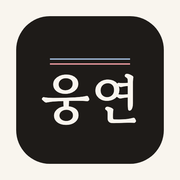
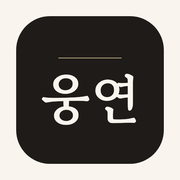
v3.3: 청실홍실 모티프 → 세이지·로즈·샴페인, 타임라인 단선·고리, 사전 소개문, 사회자 답례

Changed region(s): [[0.2778, 0.3056, 0.7222, 0.3611]]

diff --git a/index.html b/index.html
@@ -7,14 +7,14 @@
 <link rel="canonical" href="https://salescompany0920-afk.github.io/wedding-guide-7f3a9c2e/">
 <meta property="og:type" content="website">
 <meta property="og:title" content="웅진 ❤ 연재 둘만의 결혼 가이드">
-<meta property="og:image" content="https://salescompany0920-afk.github.io/wedding-guide-7f3a9c2e/og-v2.png">
+<meta property="og:image" content="https://salescompany0920-afk.github.io/wedding-guide-7f3a9c2e/og-v3.png">
 <meta property="og:image:width" content="1200">
 <meta property="og:image:height" content="630">
 <meta property="og:url" content="https://salescompany0920-afk.github.io/wedding-guide-7f3a9c2e/">
 <meta property="og:locale" content="ko_KR">
 <meta name="twitter:card" content="summary_large_image">
 <meta name="twitter:title" content="웅진 ❤ 연재 둘만의 결혼 가이드">
-<meta name="twitter:image" content="https://salescompany0920-afk.github.io/wedding-guide-7f3a9c2e/og-v2.png">
+<meta name="twitter:image" content="https://salescompany0920-afk.github.io/wedding-guide-7f3a9c2e/og-v3.png">
 <link rel="icon" type="image/png" sizes="32x32" href="favicon-32.png">
 <link rel="apple-touch-icon" href="apple-touch-icon.png">
 <link rel="manifest" href="manifest.webmanifest">
@@ -29,8 +29,9 @@
   --paper:#F9F5EE; --paper-2:#F1EADF; --card:#FFFDF9;
   --ink:#1E1B18; --ink-2:#5A544C; --ink-3:#6B635A;
   --line:#DCD3C5; --line-2:#EAE3D7;
-  --blue:#2E4A6B; --blue-soft:#DEE6EF;
-  --red:#B6484C; --red-soft:#F3DEDF;
+  /* 2026-11-09 v3.3: 청실홍실 모티프 폐기. --blue=세이지 그린(링크·포커스), --red=더스티 로즈(강조·경고), --gold=샴페인(진행·현재) */
+  --blue:#5E7D6C; --blue-soft:#E4ECE6;
+  --red:#A3666A; --red-soft:#F3E4E3;
   --gold:#A8874B; --gold-soft:#F2EAD8;
   --ok:#3E7A58; --ok-soft:#E1EEE5;
   --font-display:'Gowun Batang','Nanum Myeongjo','Apple SD Gothic Neo','Malgun Gothic',serif;
@@ -43,8 +44,8 @@
     --paper:#1B1916; --paper-2:#221E1A; --card:#262119;
     --ink:#F1EBE1; --ink-2:#C3B9AA; --ink-3:#948A7D;
     --line:#3B352D; --line-2:#2F2A24;
-    --blue:#9BB4D2; --blue-soft:#273445;
-    --red:#E3959A; --red-soft:#3E292B;
+    --blue:#A9C3B4; --blue-soft:#27332D;
+    --red:#DDA7A9; --red-soft:#3C2C2D;
     --gold:#D6BB85; --gold-soft:#36301F;
     --ok:#86C39E; --ok-soft:#22332A;
     --shadow:0 10px 30px rgba(0,0,0,.35);
@@ -55,8 +56,8 @@
   --paper:#1B1916; --paper-2:#221E1A; --card:#262119;
   --ink:#F1EBE1; --ink-2:#C3B9AA; --ink-3:#948A7D;
   --line:#3B352D; --line-2:#2F2A24;
-  --blue:#9BB4D2; --blue-soft:#273445;
-  --red:#E3959A; --red-soft:#3E292B;
+  --blue:#A9C3B4; --blue-soft:#27332D;
+  --red:#DDA7A9; --red-soft:#3C2C2D;
   --gold:#D6BB85; --gold-soft:#36301F;
   --ok:#86C39E; --ok-soft:#22332A;
   --shadow:0 10px 30px rgba(0,0,0,.35);
@@ -101,8 +102,9 @@ input[type=number]::-webkit-inner-spin-button,input[type=number]::-webkit-outer-
   background:radial-gradient(ellipse 70% 55% at 50% 0%,rgba(255,255,255,.75),transparent 70%),var(--paper)}
 :root[data-theme="dark"] .cover{background:radial-gradient(ellipse 70% 55% at 50% 0%,rgba(255,255,255,.05),transparent 70%),var(--paper)}
 @media (prefers-color-scheme: dark){:root:not([data-theme="light"]) .cover{background:radial-gradient(ellipse 70% 55% at 50% 0%,rgba(255,255,255,.05),transparent 70%),var(--paper)}}
-.threads{width:128px;height:9px;margin:0 auto 30px;
-  background:linear-gradient(var(--blue),var(--blue)) top/100% 1.5px no-repeat,linear-gradient(var(--red),var(--red)) bottom/100% 1.5px no-repeat}
+.threads{width:128px;height:11px;margin:0 auto 30px;position:relative;
+  background:linear-gradient(var(--gold),var(--gold)) center/100% 1px no-repeat}
+.threads::after{content:"";position:absolute;left:50%;top:50%;width:9px;height:9px;margin:-5.5px 0 0 -5.5px;border:1.5px solid var(--gold);border-radius:50%;background:var(--paper)}
 .cover .eyebrow{font-family:var(--font-display);color:var(--ink-2);font-size:1rem;margin:0 0 18px;letter-spacing:.04em}
 .cover .names{font-family:var(--font-display);font-weight:400;margin:0 0 14px;line-height:1.1;display:flex;flex-direction:row;flex-wrap:wrap;align-items:baseline;justify-content:center;gap:0 .45em}
 .cover .names .n{font-size:clamp(2.1rem,7.6vw,3.8rem);letter-spacing:.06em;white-space:nowrap}
@@ -134,7 +136,7 @@ input[type=number]::-webkit-inner-spin-button,input[type=number]::-webkit-outer-
 section.block{padding-block:60px;border-top:1px solid var(--line)}
 .block h2{font-family:var(--font-display);font-weight:400;font-size:clamp(1.55rem,3.6vw,1.95rem);line-height:1.3;margin:0 0 .4em}
 .block h2::before{content:"";display:block;width:30px;height:7px;margin-bottom:14px;
-  background:linear-gradient(var(--blue),var(--blue)) top/100% 1.5px no-repeat,linear-gradient(var(--red),var(--red)) bottom/100% 1.5px no-repeat}
+  background:linear-gradient(var(--gold),var(--gold)) center/100% 1px no-repeat}
 .block .intro{color:var(--ink-2);max-width:40em;margin:0 0 34px;line-height:1.9}
 .block h3{font-family:var(--font-display);font-weight:400;font-size:1.3rem;line-height:1.35;margin:36px 0 10px}
 .prose{max-width:40em}
@@ -186,25 +188,26 @@ table.tbl.compact{min-width:0}
 .now-card .empty{color:var(--ink-2);margin:0}
 .progress{margin:18px 0 0}
 .progress .bar{height:6px;border-radius:999px;background:var(--line-2);overflow:hidden}
-.progress .fill{height:100%;background:linear-gradient(90deg,var(--blue),var(--red));width:0;transition:width .4s ease}
+.progress .fill{height:100%;background:linear-gradient(90deg,#CDB68A,var(--gold));width:0;transition:width .4s ease}
 .progress .pt{display:flex;justify-content:space-between;font-size:.85rem;color:var(--ink-2);margin-top:6px;font-variant-numeric:tabular-nums}
 
 /* 타임라인 — 청실홍실 레일 */
 .timeline{position:relative;padding-left:46px;margin-top:10px}
 .timeline::before,.timeline::after{content:"";position:absolute;top:10px;bottom:30px;width:1.5px}
-.timeline::before{left:14px;background:var(--blue)}
-.timeline::after{left:21px;background:var(--red)}
+.timeline::before{left:17px;background:var(--line)}
+.timeline::after{display:none}
 .phase{position:relative;padding:4px 0 34px}
-.phase .knot{position:absolute;left:-39px;top:10px;width:22px;height:22px;border-radius:50%;
-  background:conic-gradient(var(--blue) 0 50%,var(--red) 50% 100%);box-shadow:0 0 0 5px var(--paper)}
-.phase.current .knot{box-shadow:0 0 0 5px var(--paper),0 0 0 7px var(--red)}
+.phase .knot{position:absolute;left:-37px;top:12px;width:18px;height:18px;border-radius:50%;box-sizing:border-box;
+  border:2px solid var(--gold);background:var(--paper);box-shadow:0 0 0 5px var(--paper)}
+.phase.past .knot{background:var(--gold);border-color:var(--gold)}
+.phase.current .knot{width:22px;height:22px;border-width:3px;background:var(--paper);box-shadow:0 0 0 5px var(--paper),0 0 0 7px var(--gold-soft)}
 .phase h3{display:flex;flex-wrap:wrap;align-items:baseline;gap:4px 12px;margin:0 0 4px}
 .phase h3 .dnum{font-family:var(--font-display);font-size:1.5rem;font-variant-numeric:tabular-nums;letter-spacing:.01em}
 .phase h3 .plabel{font-family:var(--font-body);font-size:.98rem;color:var(--ink-2)}
 .phase .phint{font-size:.93rem;color:var(--ink-2);margin:0 0 14px;max-width:38em;line-height:1.8}
 .phase.current{background:var(--card);border:1px solid var(--line);border-radius:var(--radius);padding:16px 18px 18px;margin-left:-6px;box-shadow:var(--shadow)}
-.phase.current .knot{left:-57px;top:22px}
-.phase.current .tag{display:inline-block;font-size:.76rem;background:var(--red);color:var(--paper);border-radius:999px;padding:1px 9px;margin-left:4px;vertical-align:middle}
+.phase.current .knot{left:-34px;top:20px}
+.phase.current .tag{display:inline-block;font-size:.76rem;background:var(--gold);color:#fff;border-radius:999px;padding:1px 9px;margin-left:4px;vertical-align:middle}
 .phase.past h3 .dnum,.phase.past h3 .plabel{color:var(--ink-3)}
 
 /* 체크 항목 */
@@ -213,8 +216,8 @@ table.tbl.compact{min-width:0}
 .task input{position:absolute;opacity:0;width:1px;height:1px;margin:0}
 .task .box{flex:none;width:20px;height:20px;border:1.5px solid var(--ink-2);border-radius:5px;margin-top:6px;position:relative;background:var(--card)}
 .task input:focus-visible + .box{outline:2px solid var(--blue);outline-offset:2px}
-.task input:checked + .box{border-color:var(--red)}
-.task input:checked + .box::after{content:"";position:absolute;inset:4px;border-radius:50%;background:var(--red)}
+.task input:checked + .box{border-color:var(--gold)}
+.task input:checked + .box::after{content:"";position:absolute;inset:4px;border-radius:50%;background:var(--gold)}
 .task .txt{font-size:.97rem;line-height:1.7;padding-top:2px}
 .task .txt b{font-weight:600}
 .task .tn{color:var(--ink-2);font-size:.9rem}
@@ -243,7 +246,7 @@ details.item[open]>summary .name{color:var(--blue)}
 .item .one{color:var(--ink-2);font-size:.92rem;display:block}
 .chip{font-size:.78rem;padding:3px 10px;border-radius:999px;border:1px solid var(--line);color:var(--ink-2);white-space:nowrap;font-variant-numeric:tabular-nums;background:var(--card)}
 .chip.t1{background:var(--blue-soft);border-color:transparent;color:var(--blue)}
-.chip.t2{background:var(--red-soft);border-color:transparent;color:#9E3B40}
+.chip.t2{background:var(--red-soft);border-color:transparent;color:#8E4F53}
 .chip.my{background:var(--ink);border-color:var(--ink);color:var(--paper)}
 :root[data-theme="dark"] .chip.t2{color:var(--red)}
 @media (prefers-color-scheme: dark){:root:not([data-theme="light"]) .chip.t2{color:var(--red)}}
@@ -257,7 +260,7 @@ details.item[open]>summary .name{color:var(--blue)}
 .kv dd.exp p{margin:0 0 6px;font-size:.94rem}
 .kv dd.exp .lesson{color:var(--ink-2);font-size:.9rem;border-left:2px solid var(--line);padding-left:10px}
 .lab{display:inline-block;font-size:.74rem;border-radius:999px;padding:1px 8px;margin-right:8px;vertical-align:middle;font-weight:600}
-.lab.bad{background:var(--red-soft);color:#9E3B40}
+.lab.bad{background:var(--red-soft);color:#8E4F53}
 .lab.good{background:var(--ok-soft);color:var(--ok)}
 :root[data-theme="dark"] .lab.bad{color:var(--red)}
 @media (prefers-color-scheme: dark){:root:not([data-theme="light"]) .lab.bad{color:var(--red)}}
@@ -265,7 +268,7 @@ ul.save li{margin:.3em 0}
 .verdict{display:inline-block;font-size:.72rem;border-radius:999px;padding:0 7px;margin-left:6px;vertical-align:middle;border:1px solid var(--line);color:var(--ink-3)}
 .verdict.v-ok{border-color:transparent;background:var(--ok-soft);color:var(--ok)}
 .verdict.v-part{border-color:transparent;background:var(--gold-soft);color:var(--gold)}
-.verdict.v-no{border-color:transparent;background:var(--red-soft);color:#9E3B40}
+.verdict.v-no{border-color:transparent;background:var(--red-soft);color:#8E4F53}
 .tiers{display:grid;grid-template-columns:repeat(3,1fr);gap:10px}
 @media (max-width:640px){.tiers{grid-template-columns:1fr}}
 .tier{border:1px solid var(--line);border-radius:12px;padding:12px 14px 14px;background:var(--card);cursor:pointer;text-align:left;font:inherit;color:inherit;display:block;width:100%;line-height:1.55;position:relative;-webkit-appearance:none;appearance:none;margin:0}
@@ -275,8 +278,8 @@ ul.save li{margin:.3em 0}
 .tier.on{border-color:var(--ink);box-shadow:0 0 0 1px var(--ink)}
 .tier .stage{font-size:.78rem;color:var(--ink-2);letter-spacing:.02em}
 .tier.on .stage{color:var(--ink);font-weight:600}
-.tier.on .stage::after{content:"";display:inline-block;width:8px;height:8px;border-radius:50%;background:var(--red);margin-left:6px;vertical-align:middle}
-.tier .rec{position:absolute;top:-9px;right:10px;font-size:.7rem;background:var(--blue);color:var(--paper);border-radius:999px;padding:1px 8px}
+.tier.on .stage::after{content:"";display:inline-block;width:8px;height:8px;border-radius:50%;background:var(--gold);margin-left:6px;vertical-align:middle}
+.tier .rec{position:absolute;top:-9px;right:10px;font-size:.7rem;background:var(--gold);color:#fff;border-radius:999px;padding:1px 8px}
 .tier .tt{font-size:.95rem;font-weight:600;color:var(--ink)}
 .tier .tp{font-family:var(--font-display);font-size:1.15rem;font-variant-numeric:tabular-nums}
 .tier .tpick{font-size:.9rem;line-height:1.65;margin-top:2px}
@@ -556,7 +559,7 @@ br.m{display:none}
 
 <section class="block" id="timeline"><div class="wrap">
   <h2>1년 전부터 식 후까지</h2>
-  <p class="intro">파란 실과 붉은 실, 청실홍실입니다. 두 실이 D-Day에서 하나의 매듭이 됩니다. 각 구간의 할 일을 체크하면 이 기기에 저장됩니다. 항목 옆 "자세히"를 누르면 아래 사전으로 이동합니다.</p>
+  <p class="intro">한 줄로 이어진 열한 구간입니다. 지금 구간은 금색 고리로 표시되고, 지난 구간은 채워집니다. 각 구간의 할 일을 체크하면 이 기기에 저장됩니다. 항목 옆 "자세히"를 누르면 아래 사전으로 이동합니다.</p>
   <div class="progress all" id="progress-all"></div>
   <div class="toolbar no-print"><button type="button" class="btn danger" data-act="reset">체크 초기화</button></div>
   <div class="timeline" id="timeline-list"></div>
@@ -564,7 +567,7 @@ br.m{display:none}
 
 <section class="block page-break" id="dict"><div class="wrap">
   <h2>항목 사전</h2>
-  <p class="intro">항목마다 평균은 어떤지, 안 함·보통·아낌없이 세 가지 선택지는 실제 가격으로 얼마인지 적었습니다. 하나를 고르거나 실제 견적을 적으면 아래 예산에 모입니다. 먼저 한 사람들이 아까워했거나 잘했다고 한 것, 절약 팁, 노하우, 영상도 카드마다 있습니다. 아래 분류를 누르면 그 묶음만 보입니다.</p>
+  <p class="intro">항목마다 평균은 어떤지, 안 함·보통·아낌없이 세 가지 선택지는 실제 가격으로 얼마인지 적었습니다. 하나를 고르거나 실제 견적을 적으면 아래 예산에 모입니다. 아래 분류를 누르면 그 묶음만 보입니다. 지표는 참고만 하고, 두 분이 원하는 자유로운 결정을 하세요.</p>
   <div class="gfilter no-print" id="gfilter" role="tablist" aria-label="항목 분류"></div>
   <div class="toolbar no-print"><button type="button" class="btn" data-act="open-all">모두 펼치기</button><button type="button" class="btn" data-act="close-all">모두 접기</button><button type="button" class="btn" data-act="print">인쇄 · PDF로 저장</button></div>
   <div id="items"></div>
@@ -907,7 +910,7 @@ D.cue = [
 
 /* 역할과 답례 — 노하우 기준 */
 D.roles = [
- {r:'사회자', p:'자기 대본이 있는 숙련자가 좋습니다. 처음이면 식이 일찍 끝나고 읽기에 급급해지는데, 1~2번은 어쩔 수 없습니다. 웨딩홀 기본 대본은 2주 전까지 본인 입맛에 고치게 하세요. 분위기를 두 사람 요구에 맞출 수 있는 사람이 최고입니다.', g:'정장 한 벌'},
+ {r:'사회자', p:'자기 대본이 있는 숙련자가 좋습니다. 처음이면 식이 일찍 끝나고 읽기에 급급해지는데, 1~2번은 어쩔 수 없습니다. 웨딩홀 기본 대본은 2주 전까지 본인 입맛에 고치게 하세요. 분위기를 두 사람 요구에 맞출 수 있는 사람이 최고입니다.', g:'정성이 담긴 선물'},
  {r:'주례', p:'신랑 신부만큼, 또는 그 이상 준비하고 연습합니다. 식 한 달 전 찾아뵙고 두 사람 이야기를 들려 드리세요. 주례 없는 식이면 이 자리에 양가 부모 덕담이 들어갑니다.', g:'정성이 담긴 선물'},
  {r:'축사', p:'대중 앞에서 말하는 일이라 생각보다 훨씬 떨립니다. 2~3분 분량, 두 사람 이야기 한 가지를 부탁하세요.', g:'20만원 이상'},
  {r:'축가', p:'많이 해 본 사람을 추천합니다. 실력이 안 나올 확률이 99%고 율동이 들어가면 더 그렇습니다. MR·마이크는 식장과 미리 맞추세요.', g:'20만원'},
@@ -1331,14 +1334,14 @@ D.items.push(
 
 {id:'mc', group:'people', name:'사회자', one:'자기 대본이 있는 숙련자. 처음이면 2주 전까지 대본 수정', when:'D-60',
  why:'전통 혼례에서는 집례(執禮)가 홀기(笏記)를 읊으며 절차를 이끌었습니다. 신식 결혼식의 사회자는 그 자리를 이어받아 식순을 진행하고 하객의 주의를 모으는 사람입니다. 주례 없는 예식이 95%가 된 지금, 식의 흐름과 분위기를 책임지는 사람은 사실상 사회자 한 명입니다.',
- others:'지인 사회자 사례 20~30만원(현금·상품권 또는 와인·넥타이·디너 상품권). 전문 사회자 일반 20~40(미소 평균 40), 아나운서 출신 40~50, 유명 MC 50만원 이상. 주례 없는 예식이면 전문 사회자 1명에 예산을 집중하라는 권고가 많습니다.',
+ others:'지인 사회자에게는 정성이 담긴 선물로 답례합니다. 전문 사회자 일반 20~40(미소 평균 40), 아나운서 출신 40~50, 유명 MC 50만원 이상. 주례 없는 예식이면 전문 사회자 1명에 예산을 집중하라는 권고가 많습니다.',
  tiers:[
-  {t:'지인', cost:[20,30], pick:'결혼식 사회 경험이 있는 친구. 답례 20~30만원 또는 정장 한 벌.', note:'이 안내서 작성자의 답례는 정장 한 벌'},
+  {t:'지인', sub:'정성이 담긴 선물', pick:'결혼식 사회 경험이 있는 친구. 답례는 정성이 담긴 선물로.', note:'금액보다 마음. 식사 자리까지 챙기면 좋습니다'},
   {t:'보통', cost:[20,40], pick:'전문 사회자(이벤트 업체·프리랜서).', note:'계약금 형태. 두 사람 요구에 분위기를 맞춰 줄 수 있는지 확인'},
   {t:'아낌없이', cost:[40,60], pick:'아나운서 출신·유명 MC.', note:'40~50만원 이상'}
  ],
  tips:['이미 숙련되어 자기만의 대본이 있는 사람을 추천합니다. 경험이 없다면 웨딩홀 기본 대본을 2주 전까지 사회자 본인 입맛에 꼭 고치게 하세요.','처음 사회를 보면 식이 일찍 끝납니다. 큰 긴장이 어떤 느낌인지 몰라 읽기에 급급해지는데, 1~2번은 어쩔 수 없습니다. 처음이면 "여유"를 강조해 주세요.','대본 옆에 진행 큐(음악 시작·입장문 오픈·박수 유도)를 함께 적어 주면 좋습니다.','1시간 전 음향·조명·입장문, 30분 전 성함·서약문·선언문, 5분 전 좌석·식전 안내를 사회자가 점검.'],
- mistake:'지인에게 부탁하면서 사례 금액과 식사 여부를 처음에 말하지 않음.',
+ mistake:'지인에게 부탁하면서 답례와 식사 여부를 처음에 말하지 않음.',
  src:[S.gong_mc,S.miso_mc,S.baby,S.sano]},
 
 {id:'officiant', group:'people', name:'주례', one:'95%가 주례 없이 합니다. 있다면 한 달 전 찾아뵙기', when:'D-60, 방문 D-30',
@@ -1822,7 +1825,7 @@ var REAL = {
  cheongmo:{v:'230만원', n:'모임 식사비 9건 중간값(150~610). 청첩장 제작비의 14배'},
  gift:{v:'40만원', n:'사례 5건 중간값(11~120)'},
  receipt:{v:'사례비 합계 40만원', n:'사회·축가·축의대를 모두 합친 8건 중간값(0~85). 접수만 따로 집계한 값은 아님'},
- mc:{v:'사례비 합계 40만원', n:'사회·축가·축의대를 모두 합친 8건 중간값(0~85). 전문 사회 20'},
+ mc:{v:'전문 사회 20만원', n:'결산 사례 8건 중 사회·축가·축의대 사례비 합계 중간값은 40(0~85). 지인 사회자는 정성이 담긴 선물로'},
  song:{v:'사례비 합계 40만원', n:'사회·축가·축의대를 모두 합친 8건 중간값. 축가 1회 20~30'},
  sangyeonrye:{v:'59만원', n:'식사 10건 중간값(32~120)'},
  bus:{v:'167만원', n:'참고 1건뿐(2대 왕복, 경북·충북)'},
@@ -1857,7 +1860,7 @@ D.faq = [
 /* 당일 준비물 (역할별) */
 D.kit = [
  {who:'신부', items:['교환 반지(누가 들지 정하기)','2부 드레스 또는 한복, 연회장용 액세서리','속옷·보정속옷·누드브라, 여분 스타킹 2~3','갈아신을 플랫슈즈','헤어핀·스프레이, 양치도구·립밤','간식·물·빨대','충전기·보조배터리, 신분증·카드','청심환(몸에 맞는 사람만)']},
- {who:'신랑', items:['교환 반지','정장 양말 여분, 2부용 타이','혼인서약서·성혼선언문 출력본(낭독용 + 예비 1부)','사회자 대본 예비본','사례비 봉투 일괄(헬퍼·사회·축가·축의대·주차, 이름 적어서)','신분증·카드, 결제 카드(마일리지)','구두(두고 온 사례 있음)']},
+ {who:'신랑', items:['교환 반지','정장 양말 여분, 2부용 타이','혼인서약서·성혼선언문 출력본(낭독용 + 예비 1부)','사회자 대본 예비본','사례비 봉투 일괄(헬퍼·축가·축의대·주차, 이름 적어서)와 사회자 선물','신분증·카드, 결제 카드(마일리지)','구두(두고 온 사례 있음)']},
  {who:'혼주(양가 부모)', items:['한복·한복 양말·장신구 또는 양장·길들인 구두','청심환','어른 손님 명단','친척 교통비 등 답례 봉투(집안 관례)','폐백을 하면 폐백 음식 수령 확인, 절값 봉투']},
  {who:'혼주(가방순이, 가족)', items:['메이크업 수정템: 립·쿠션·기름종이·면봉·손거울','응급 키트: 안전핀·반짇고리·밴드·진통제·소화제','물티슈·여성용품·사탕·구강 스프레이','지퍼 크로스백(대기실 축의금·귀중품)','삼각대·셀카봉, 신부 폰 사진 백업','포토테이블 액자·소품 회수 담당']},
  {who:'축의대(양측 1~2명, 2인 1조)', items:['축의금 장부·펜 여러 자루','잠금 되는 현금 가방','식권(미리 수령·매수 확인, 대기실용 별도)','주차권 또는 주차 등록 방법','답례품 수령 위치 확인','고무줄·클립(봉투 10장씩 묶기)','규칙: 봉투는 현장에서 뜯지 않음, 정산은 담당 2명 + 가족 1명, 남은 식권 수까지 맞춤']},
